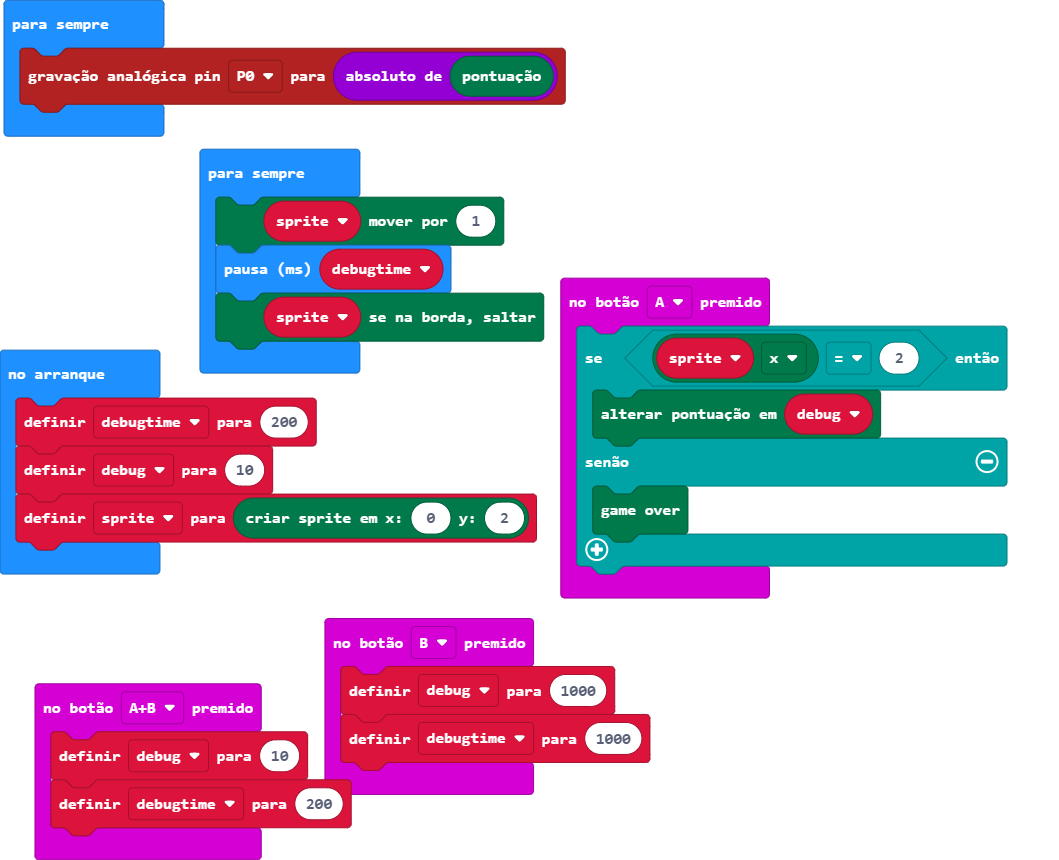
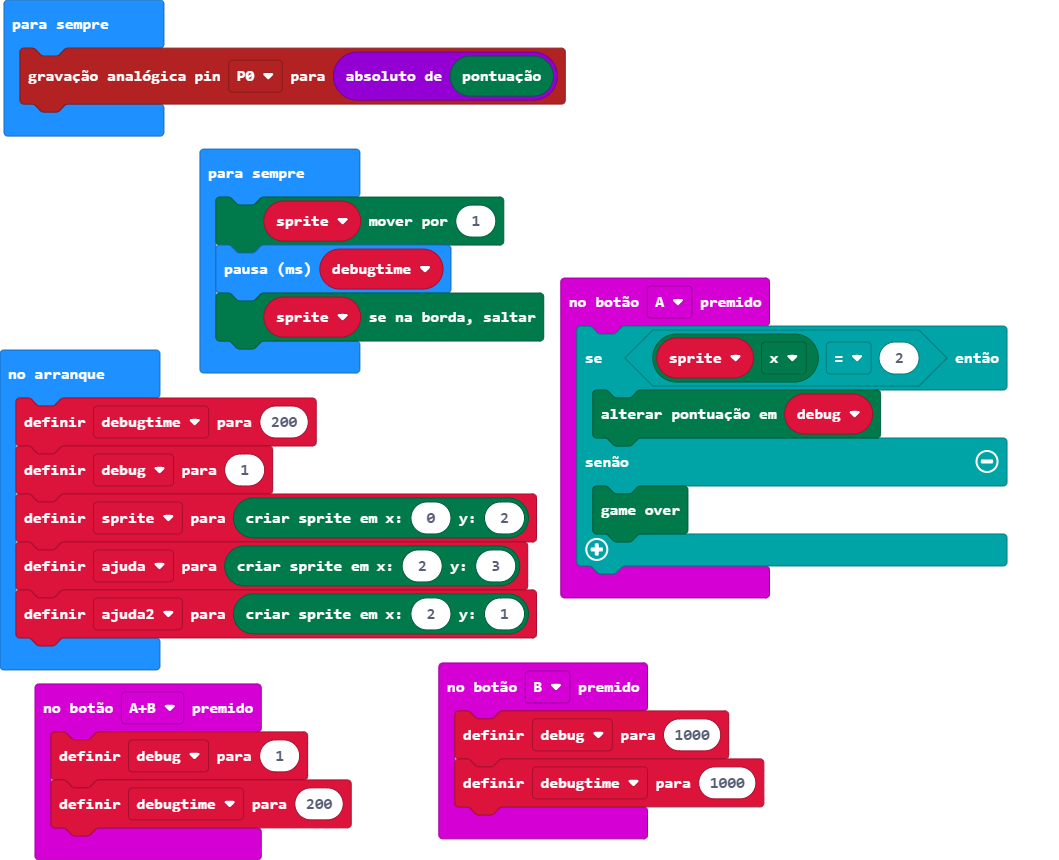
idk

Changed region(s): [[0.0, 0.6047, 0.7479, 0.9977], [0.2181, 0.5442, 0.2493, 0.5744]]

diff --git a/main.ts b/main.ts
@@ -6,7 +6,7 @@ input.onButtonPressed(Button.A, function () {
     }
 })
 input.onButtonPressed(Button.AB, function () {
-    debug = 10
+    debug = 1
     debugtime = 200
 })
 input.onButtonPressed(Button.B, function () {
@@ -17,8 +17,10 @@ let sprite: game.LedSprite = null
 let debug = 0
 let debugtime = 0
 debugtime = 200
-debug = 10
+debug = 1
 sprite = game.createSprite(0, 2)
+let ajuda = game.createSprite(2, 3)
+let ajuda2 = game.createSprite(2, 1)
 basic.forever(function () {
     pins.analogWritePin(AnalogPin.P0, Math.abs(game.score()))
 })
